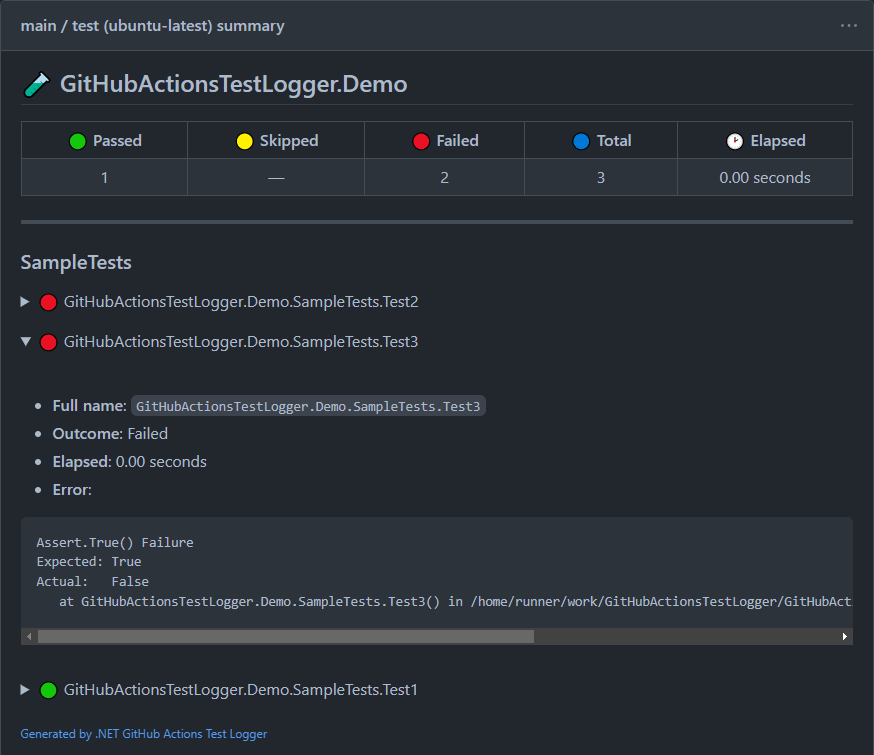
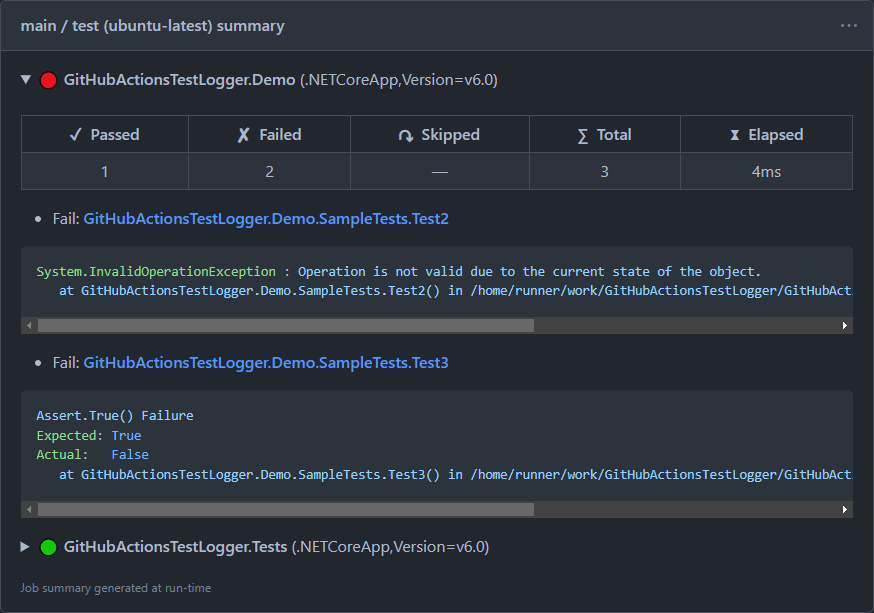
Update readme

Changed region(s): [[0.0, 0.3409, 1.0, 1.0], [0.0309, 0.093, 0.9886, 0.31], [0.0309, 0.031, 0.3398, 0.062]]

diff --git a/Readme.md b/Readme.md
@@ -32,7 +32,7 @@ To learn more about the war and how you can help, [click here](https://tyrrrz.me
 
 ## Screenshots
 
-![diff](.assets/diff.png)
+![annotations](.assets/annotations.png)
 ![summary](.assets/summary.png)
 
 ## Usage
